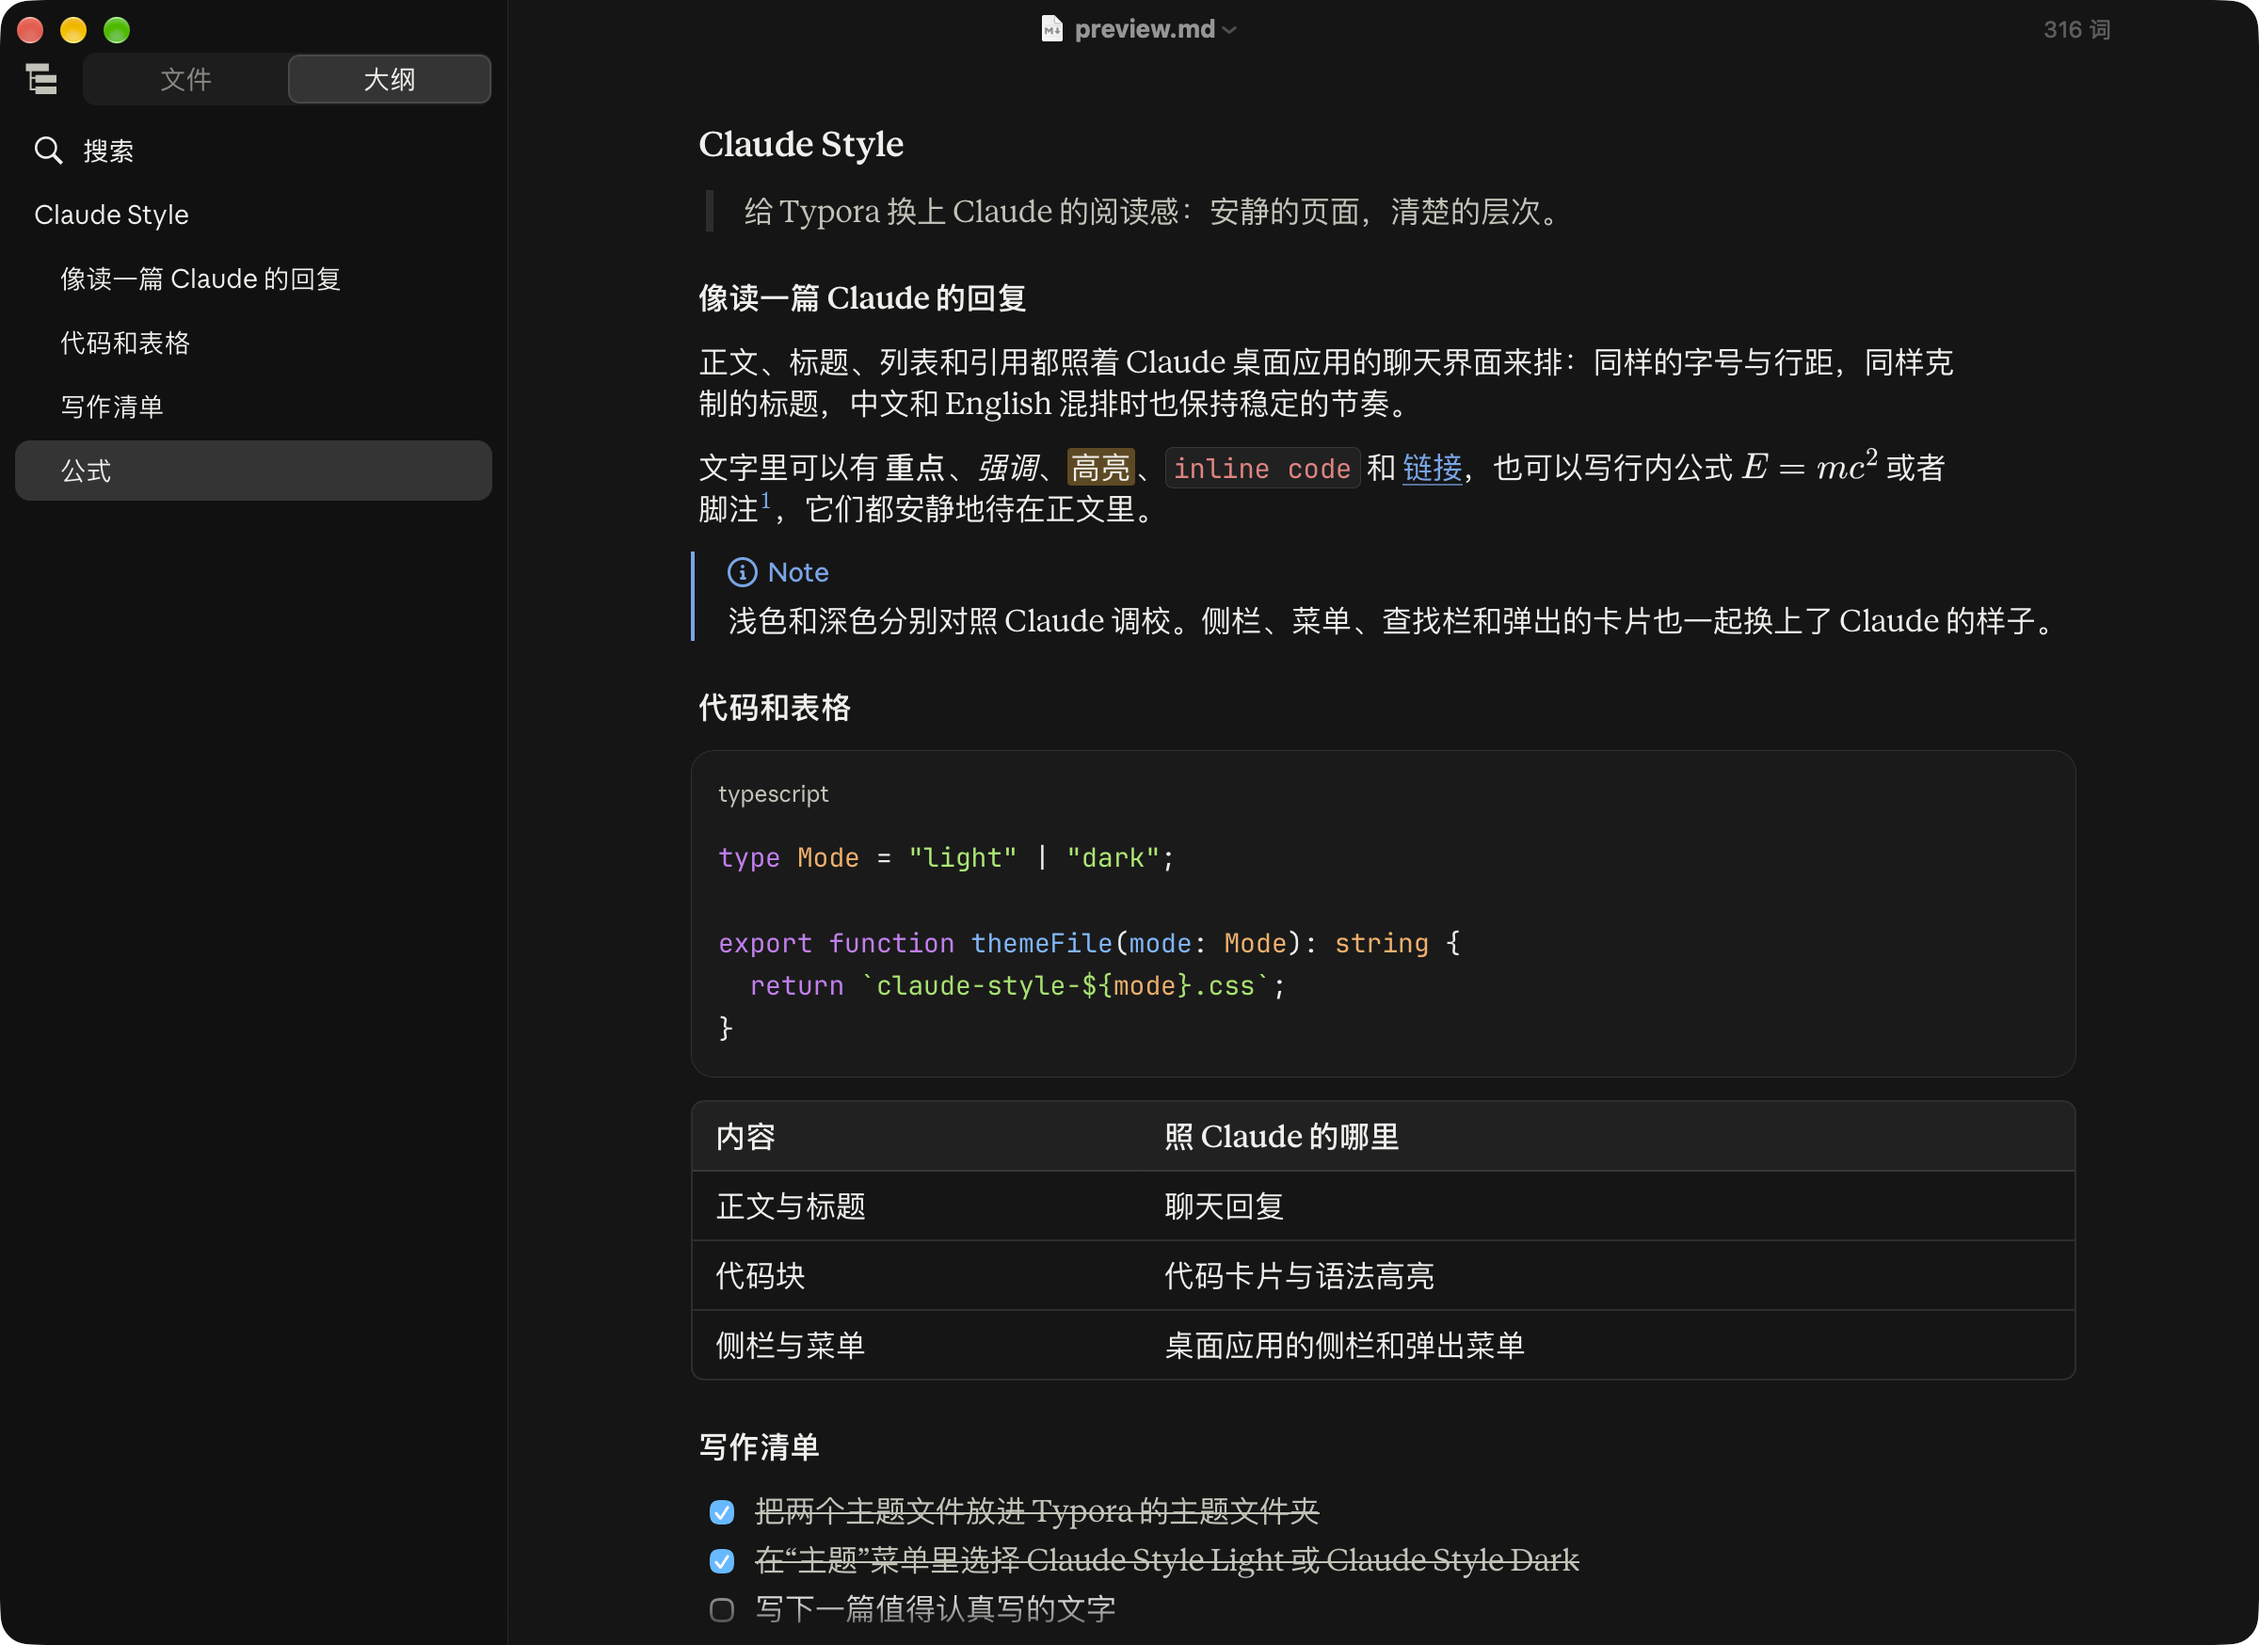
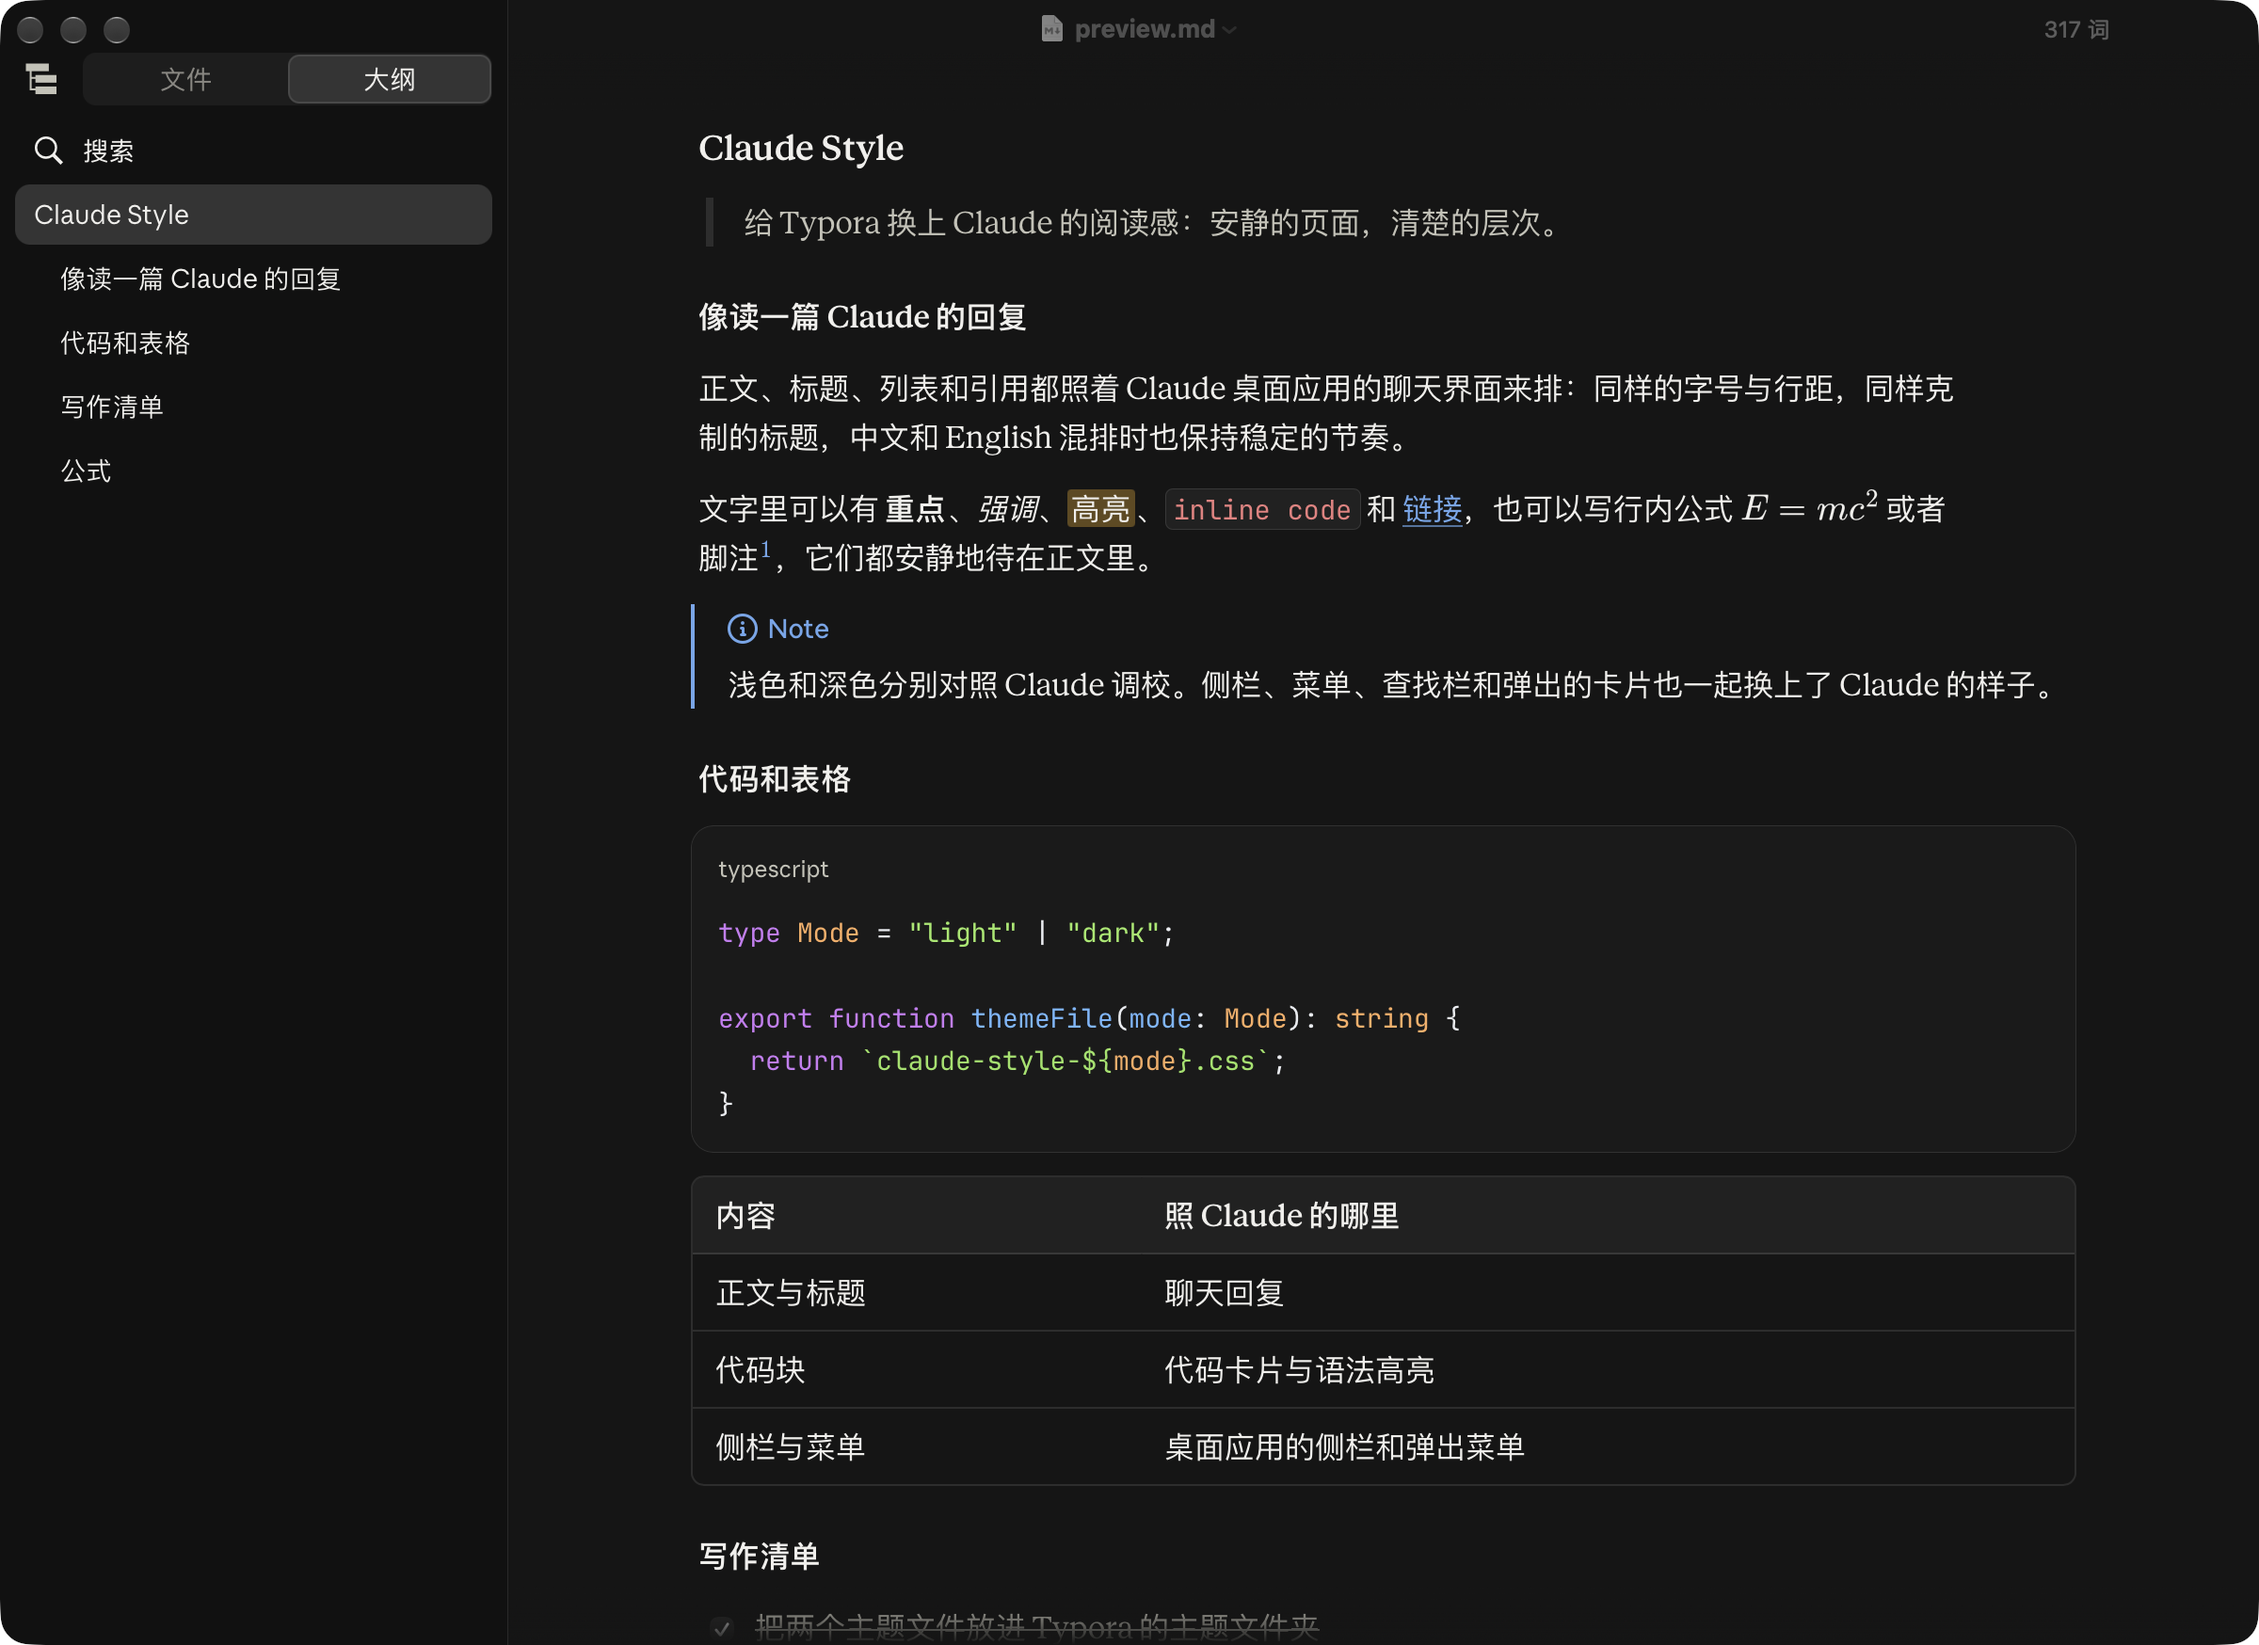
docs: Claude Style's post follows 1.2.7 (heavier bold, wider CJK lines), with new previews and thumbnail

diff --git a/_posts/theme/2026-10-22-claude-style.md b/_posts/theme/2026-10-22-claude-style.md
@@ -51,7 +51,7 @@ Files linked in paragraphs of their own, in the light and the dark theme:
 
 The theme prefers Anthropic Serif, Anthropic Sans and JetBrains Mono NL when they are installed and falls back to Times New Roman, the system fonts and PingFang SC (Microsoft YaHei on Windows). No font is bundled or downloaded.
 
-Since the 1.2 series, the theme follows the desktop app's new interface in its sizes, spacing, corners, type, layout and icons, but not in everything: the new interface also made secondary text and dividing lines fainter, took the red and the border away from inline code and the border and header fill away from tables, and turned file cards into one-line rows, which makes documents harder to read. So the 1.2 series keeps the colours of the 1.1 series, its tables, its red and bordered inline code and its file cards coloured by the kind of file. The one colour taken from the new interface is in the sidebar: file names and their extensions, outline headings, New and Search, the 项目列表 heading and the folder's name in the footer are always in the colour of the body text. The 1.1 series is no longer updated, and moving to the 1.2 series is recommended; its releases stay on the [releases page](https://github.com/Xv-Bowen/Claude-Style-Typora/releases).
+Since the 1.2 series, the theme follows the desktop app's new interface in its sizes, spacing, corners, type, layout and icons, but not in everything: the new interface also made secondary text and dividing lines fainter, took the red and the border away from inline code and the border and header fill away from tables, and turned file cards into one-line rows, which makes documents harder to read. So the 1.2 series keeps the colours of the 1.1 series, its tables, its red and bordered inline code and its file cards coloured by the kind of file. The one colour taken from the new interface is in the sidebar: file names and their extensions, outline headings, New and Search, the 项目列表 heading and the folder's name in the footer are always in the colour of the body text. A later, smaller update of the desktop app made bold text heavier and spaced the lines of replies a little wider when the interface is in Chinese, Japanese or Korean; the 1.2 series follows both from 1.2.7 (the wider lines need the enhancement script). The 1.1 series is no longer updated, and moving to the 1.2 series is recommended; its releases stay on the [releases page](https://github.com/Xv-Bowen/Claude-Style-Typora/releases).
 
 ## Installation
 
@@ -63,7 +63,7 @@ That completes the installation: the theme's whole look is in place. The enhance
 
 ## Enhancement script (optional)
 
-Without the enhancement script, none of the theme's look is lost, and the theme works as described above; only the copy button and the lock do nothing when clicked. The same release has `claude-style-enhance.zip`, with an optional script that adds what a theme cannot do: a picture viewer that zooms and drags, file names and picture thumbnails on file cards, clicks on the code cards' copy button and on the sidebar's lock (the theme draws both, the script makes them work), a sidebar search that finds as you type, with no repeated words in its results, and a top folder that folds. It comes with installers for macOS, Windows and Linux; the [README](https://github.com/Xv-Bowen/Claude-Style-Typora#enhancement-script-optional) says how to install it, with or without the installers. The script is made for the 1.2 series only: script 0.1.3 and later need Claude Style 1.2.3 or later, and with an older theme (the 1.1 series included) the script does nothing. Which releases of Claude Style include each version of the script, and the version of Typora each is adapted to, are listed in a table in the [README](https://github.com/Xv-Bowen/Claude-Style-Typora#versions-the-script-works-with). The script works by hooking into Typora's own code, so a later version of Typora may need an update of the script.
+Without the enhancement script, none of the theme's look is lost, and the theme works as described above; only the copy button and the lock do nothing when clicked. The same release has `claude-style-enhance.zip`, with an optional script that adds what a theme cannot do: a picture viewer that zooms and drags, file names and picture thumbnails on file cards, clicks on the code cards' copy button and on the sidebar's lock (the theme draws both, the script makes them work), a sidebar search that finds as you type, with no repeated words in its results, a top folder that folds, and lines spaced a little wider, as Claude spaces them, when Typora's interface is in Chinese, Japanese or Korean. It comes with installers for macOS, Windows and Linux; the [README](https://github.com/Xv-Bowen/Claude-Style-Typora#enhancement-script-optional) says how to install it, with or without the installers. The script is made for the 1.2 series only: script 0.1.3 and later need Claude Style 1.2.3 or later, and with an older theme (the 1.1 series included) the script does nothing. Which releases of Claude Style include each version of the script, and the version of Typora each is adapted to, are listed in a table in the [README](https://github.com/Xv-Bowen/Claude-Style-Typora#versions-the-script-works-with). The script works by hooking into Typora's own code, so a later version of Typora may need an update of the script.
 
 The same zip has `claude-style-export-head.txt`. Pasted into Typora's export settings, it makes exported HTML and PDF draw file cards too, with or without the script; see [File cards in exports](https://github.com/Xv-Bowen/Claude-Style-Typora#file-cards-in-exports-optional) in the README.
 
